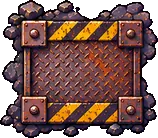
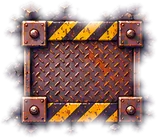
The Deep Mine: ground surfaces blend smoothly into each other
Claude-Session: https://claude.ai/code/session_01DZ7TQ884r4s3ytnVNv4XVF

diff --git a/client/client.js b/client/client.js
@@ -3553,12 +3553,12 @@ function drawDynastyWorld() {
   drawGroundCached("dyn" + T + WW + "x" + WH + ":" + ready + ":" + decorSrc.length, (vx, vy, vw, vh) => {
     const fill = (p, x, y, w, h) => { const ax = Math.max(x, vx), ay = Math.max(y, vy), bx = Math.min(x + w, vx + vw), by = Math.min(y + h, vy + vh); if (bx > ax && by > ay) { ctx.fillStyle = p; ctx.fillRect(ax, ay, bx - ax, by - ay); } };
     const grass = pattern(base); ctx.fillStyle = "#14161c"; ctx.fillRect(vx, vy, vw, vh); if (grass) fill(grass, 0, 0, WW, WH);
-    for (const g of dynGroundCache.g) { if (g.tile === "dungeon") { if (g.x < vx + vw && g.x + g.w > vx && g.y < vy + vh && g.y + g.h > vy) mineDungeonFloor(g, vx, vy, vw, vh); continue; }
+    if (mn) { mineGroundBlend(dynGroundCache.g, grass, vx, vy, vw, vh); for (const d of decor) if (/^mChasm/.test(d.kind)) { const [w, h] = d.kind === "mChasm" ? [660, 250] : [250, 620]; if (d.x - w / 2 < vx + vw + 30 && d.x + w / 2 > vx - 30 && d.y - h / 2 < vy + vh + 30 && d.y + h / 2 > vy - 30) drawChasm(d, w, h); }
+      mineRails(vx, vy, vw, vh, WW, WH); }   // The Deep Mine: every surface faded softly into the next, then chasms, then the rails over everything (on a chasm they run on a timber bridge)
+    else for (const g of dynGroundCache.g) {
       const p = pattern(T + g.tile); if (wo) { if (p && grass && g.x < vx + vw + 60 && g.x + g.w > vx - 60 && g.y < vy + vh + 60 && g.y + g.h > vy - 60) softPatch(g, p, grass); continue; }
       if (p) fill(p, g.x, g.y, g.w, g.h);
       if (g.road) { const horiz = g.w > g.h; if (horiz) { px(g.x, g.y - 3, g.w, 3, "#4b4554"); px(g.x, g.y + g.h, g.w, 3, "#2a2630"); } else { px(g.x - 3, g.y, 3, g.h, "#4b4554"); px(g.x + g.w, g.y, 3, g.h, "#2a2630"); } } }
-    if (mn) { for (const d of decor) if (/^mChasm/.test(d.kind)) { const [w, h] = d.kind === "mChasm" ? [660, 250] : [250, 620]; if (d.x - w / 2 < vx + vw + 30 && d.x + w / 2 > vx - 30 && d.y - h / 2 < vy + vh + 30 && d.y + h / 2 > vy - 30) drawChasm(d, w, h); }
-      mineRails(vx, vy, vw, vh, WW, WH); }   // The Deep Mine: chasms, then the rails over everything (on a chasm they run on a timber bridge)
     ctx.fillStyle = "#0c0b10"; ctx.fillRect(-60, -60, WW + 120, 60); ctx.fillRect(-60, WH, WW + 120, 60); ctx.fillRect(-60, 0, 60, WH); ctx.fillRect(WW, 0, 60, WH);   // map edge
   });
   syncDecor();
@@ -3663,6 +3663,30 @@ function drawCart(c, i) {   // views in the strip: driving down, down-right, rig
   for (const p0 of state.players.values()) if (p0.ride > 0 && (p0.ride - 1) >> 1 === i) { const p = V(p0); if (p) riders.push(p); }
   riders.sort((a, b) => a.y - b.y); for (const p of riders) drawRider(p, rim);
 }
+// The Deep Mine (Nov 11, user: "make the surfaces blend with each other"): each patch of slate / mud / planks and the dungeon floor is painted
+// through a heavily blurred mask of its shape (a shadow-blur silhouette, so it works in every browser), and big soft grime blotches
+// lie across everything, so no surface has an edge: one fades into the next. All in world coordinates, so ground chunks join up.
+let mbA = null, mbB = null;
+function mineMasked(shape, blur, paint, vx, vy, vw, vh) {   // paint(g) draws the surface (world coords) on g; it's kept only inside the blurred shape
+  if (!mbA || mbA.width !== vw || mbA.height !== vh) { mbA = document.createElement("canvas"); mbB = document.createElement("canvas"); mbA.width = mbB.width = vw; mbA.height = mbB.height = vh; }
+  const a = mbA.getContext("2d"), b = mbB.getContext("2d");
+  a.setTransform(1, 0, 0, 1, 0, 0); a.clearRect(0, 0, vw, vh); a.setTransform(1, 0, 0, 1, -vx, -vy); a.globalCompositeOperation = "source-over"; a.imageSmoothingEnabled = false; paint(a);
+  b.setTransform(1, 0, 0, 1, 0, 0); b.clearRect(0, 0, vw, vh); b.setTransform(1, 0, 0, 1, -vx - 30000, -vy); b.shadowColor = "#000"; b.shadowBlur = blur; b.shadowOffsetX = 30000; b.fillStyle = "#000"; shape(b); b.shadowColor = "transparent";
+  a.setTransform(1, 0, 0, 1, 0, 0); a.globalCompositeOperation = "destination-in"; a.drawImage(mbB, 0, 0); a.globalCompositeOperation = "source-over";
+  ctx.drawImage(mbA, vx, vy);
+}
+function mineGroundBlend(G, base, vx, vy, vw, vh) {
+  const WARM = { stone: "rgba(70,46,34,.26)", mud: "rgba(30,20,14,.12)", planks: "rgba(20,12,8,.18)" };
+  for (const g of G) { const pad = g.tile === "dungeon" ? 90 : 70; if (g.x > vx + vw + pad || g.x + g.w < vx - pad || g.y > vy + vh + pad || g.y + g.h < vy - pad) continue;
+    if (g.tile === "dungeon") { const r = { x: g.x - 40, y: g.y - 40, w: g.w + 120, h: g.h + 120, tile: "dungeon" };
+      mineMasked(c => c.fillRect(g.x + 30, g.y + 30, g.w + 60, g.h + 60), 90, c => { const m = ctx; ctx = c; try { mineDungeonFloor(r, vx, vy, vw, vh); } finally { ctx = m; } }, vx, vy, vw, vh); continue; }
+    const p = pattern("m" + g.tile); if (!p) continue; const sh = softShape(g).path;
+    mineMasked(c => c.fill(sh), g.tile === "planks" ? 26 : 56, c => { c.fillStyle = p; c.fillRect(vx, vy, vw, vh); c.globalCompositeOperation = "source-atop"; c.fillStyle = WARM[g.tile] || "rgba(0,0,0,0)"; c.fillRect(vx, vy, vw, vh); c.globalCompositeOperation = "source-over"; }, vx, vy, vw, vh);
+  }
+  const CELL = 420; for (let gy = Math.floor((vy - 300) / CELL); gy * CELL < vy + vh + 300; gy++) for (let gx = Math.floor((vx - 300) / CELL); gx * CELL < vx + vw + 300; gx++) {   // grime: big soft light and dark blotches over everything
+    const h = mnHash(gx * 13 + 7, gy * 17 + 3), x = (gx + mnHash(gx, gy * 3)) * CELL, y = (gy + mnHash(gx * 5, gy)) * CELL, r = 180 + h * 220, dark = h < .62;
+    const gr = ctx.createRadialGradient(x, y, 0, x, y, r); gr.addColorStop(0, dark ? `rgba(8,5,4,${.16 + h * .14})` : `rgba(150,120,95,${.03 + (h - .62) * .1})`); gr.addColorStop(1, "rgba(0,0,0,0)"); ctx.fillStyle = gr; ctx.fillRect(x - r, y - r, r * 2, r * 2); }
+}
 // ---------- The Deep Mine (Nov 11): rails, chasms, the dungeon floor, the rune circle, the portal swirl, the seal crystals ----------
 const mnHash = (a, b) => { let h = (Math.round(a) * 374761393 + Math.round(b) * 668265263) | 0; h = (h ^ (h >>> 13)) * 1274126177; return ((h ^ (h >>> 16)) >>> 0) / 4294967296; };
 let mineRailCache = null;
@@ -3725,8 +3749,6 @@ function mineDungeonFloor(g, vx, vy, vw, vh) {   // the boss dungeon's floor: bi
     if (hh > .1 && hh < .24) { ctx.save(); ctx.globalCompositeOperation = "lighter"; ctx.strokeStyle = "rgba(70,160,255,.42)"; ctx.lineWidth = 2; ctx.shadowColor = "#3aa0ff"; ctx.shadowBlur = 6; ctx.beginPath(); ctx.moveTo(x, y); ctx.lineTo(x + SW, y); ctx.stroke(); ctx.restore(); }   // a rune-lit joint
     if (hh > .45 && hh < .5) { ctx.save(); ctx.globalCompositeOperation = "lighter"; ctx.strokeStyle = "rgba(90,180,255,.5)"; ctx.lineWidth = 2; const mx = x + SW / 2, my = y + SH / 2; ctx.beginPath(); ctx.moveTo(mx, my - 16); ctx.lineTo(mx, my + 16); ctx.moveTo(mx, my - 6); ctx.lineTo(mx - 9, my - 14); ctx.moveTo(mx, my - 6); ctx.lineTo(mx + 9, my - 14); ctx.moveTo(mx, my + 4); ctx.lineTo(mx - 9, my - 4); ctx.moveTo(mx, my + 4); ctx.lineTo(mx + 9, my - 4); ctx.stroke(); ctx.restore(); }   // a carved rune
   }
-  const e = ctx.createLinearGradient(g.x, 0, g.x + 70, 0); e.addColorStop(0, "rgba(5,5,10,.7)"); e.addColorStop(1, "rgba(5,5,10,0)"); ctx.fillStyle = e; ctx.fillRect(g.x, g.y, 70, g.h);
-  const e2 = ctx.createLinearGradient(0, g.y, 0, g.y + 70); e2.addColorStop(0, "rgba(5,5,10,.7)"); e2.addColorStop(1, "rgba(5,5,10,0)"); ctx.fillStyle = e2; ctx.fillRect(g.x, g.y, g.w, 70);
   ctx.restore();
 }
 function drawRuneCircle(d) {   // where the Mine Beast's statue will stand: a great carved circle of glowing runes, slowly turning

diff --git a/client/index.html b/client/index.html
@@ -533,5 +533,5 @@ body.in-match #ls{display:none}
 <div id="spectate" class="spectate hidden" aria-live="polite"><b id="specTitle"></b><span><span id="specWho"></span><small id="specHint"> · Space / ← → / click to switch</small></span></div>
  <div id="overlay" class="overlay hidden"><div class="modal"><div style="font-size:42px">☣</div><h2 id="overlayTitle"></h2><p class="muted" id="overlayText"></p><div id="shop" class="shop hidden" aria-label="Shop"></div><div id="breakBtns" class="break-btns hidden"><button class="button primary" id="breakReady">READY</button><button class="button" id="breakMin">▾ MINIMIZE · BUILD FIRST</button><button class="button hidden" id="nextStage">START NOW</button></div><button class="button primary hidden" id="restartGame">PLAY AGAIN</button></div></div>
 </section>
-<script type="module" src="./client.js?v=20261111f"></script>
+<script type="module" src="./client.js?v=20261111g"></script>
 </body></html>

diff --git a/tools/extract-mine.py b/tools/extract-mine.py
@@ -52,7 +52,10 @@ def save(kind, c, width=None, scale=None, lights=0, blue=0, flat=False, loose=Fa
     if flat:   # marks blended with the magenta: pull every pinkish pixel back to neutral
         q = c.astype(int); pk = (q[..., 0] - q[..., 1] > 30) & (q[..., 2] - q[..., 1] > 20) & (np.abs(q[..., 0] - q[..., 2]) < 80); q[..., 0] = np.where(pk, q[..., 1] + 6, q[..., 0]); q[..., 2] = np.where(pk, q[..., 1], q[..., 2]); c = q.clip(0, 255).astype(np.uint8)
     im = Image.fromarray(np.ascontiguousarray(c)).resize((max(1, round(c.shape[1] * sc)), max(1, round(c.shape[0] * sc))), Image.LANCZOS)
-    a = np.array(im); a[..., 3] = np.where(a[..., 3] > 90, 255, 0); im = Image.fromarray(a); im.save(os.path.join(OUT, kind + '.webp'), quality=Q, method=6, alpha_quality=82)
+    a = np.array(im); a[..., 3] = np.where(a[..., 3] > 90, 255, 0)
+    if flat and kind not in ('mPlanks', 'mRopeM'):   # ground marks fade out over their last 16px (no hard outline): they melt into the floor (user, Nov 11: "make the surfaces blend")
+        dist = ndimage.distance_transform_edt(np.pad(a[..., 3] > 0, 1))[1:-1, 1:-1]; k = np.clip(dist / 16, 0, 1); a[..., 3] = (k * k * (3 - 2 * k) * 255).astype(np.uint8)
+    im = Image.fromarray(a); im.save(os.path.join(OUT, kind + '.webp'), quality=Q, method=6, alpha_quality=82)
     w, h = im.size; info = {'url': f'assets/map/mn/{kind}.webp', 'w': w, 'h': h}
     if lights: L = spots(a, 'loose' if loose else 'light', lights); info['lights'] = [[round(x - w / 2), round(y - h)] for x, y, s in L]
     if blue: B = spots(a, 'blue', blue, 30); info['blue'] = [[round(x - w / 2), round(y - h), round(min(2.2, .6 + s / 900), 2)] for x, y, s in B]

diff --git a/HANDOFF.md b/HANDOFF.md
@@ -447,3 +447,12 @@ Jump to wave, spawn 5 of each zombie, spawn Hivemind, boss intro now, boss to 25
 ## Nov 11 (e): Midnight Carnival REMOVED (user: "screw the carnival map, restart"); next: a scary MINE map with rideable mine carts
 - SITES[6] removed (lobby has 6 maps again), SITE_STYLE / SITE_NAMES entries removed, test 33f removed, client/assets/map/cv deleted, client/carnivalArt.js = empty exports. Everything else KEPT for the mine: the ride engine (server this.coaster / updateCoaster / coasterBoard / coasterOff / queue, schema ride / rideCd / coasterS / coasterWait, "coaster" message), mapLayout coasterTrack / coasterAt / coasterCart / coasterSeat / COASTER, client coastSync / drawTrackSeg / drawCart / drawRider / prompts / station signs, buildCarnivalLayout / carnivalGround (unused). Restore the carnival art with python3 tools/extract-carnival.py (sources tools/art/carnival).
 - Mine plan + ChatGPT prompts: claude/mine-map.md. Preview 13.7 MB. Cache: client.js?v=20261111e.
+
+## Nov 11 — THE DEEP MINE (map 6, cache 20261111f, commit b576006 in v4)
+- New lobby site 6: `{ style: "mine", seed: 6060, w: 6000, h: 4000 }`. Art: tools/art/mine (user's 18 ChatGPT images + 2 GIFs) -> `python3 tools/extract-mine.py` -> client/assets/map/mn + client/mineArt.js (MN_ART, MN_TILES, MN_CART, MN_FX = portal swirl 8 frames + crystal shatter 12 frames, for the mission later).
+- mapLayout (both copies): MN_SIZE / MN_KINDS (appended to MAP_KINDS, mShaft = index 186), MINECART cfg { speed 340, gap 112, H 0, carts 4, seats 8, along: 1 }, MN_WAY (hand waypoints, 6000x4000 units) -> mineTrack (centripetal Catmull-Rom, 22800px, 67s a lap, ONE station at (850,400)), MN_SPOT (tower 1450,1330; shaft; part areas; dungeon rect 3880-5990 x 2700-3990; portal 5180,3230; statue spot 4520,3170; 4 seals), mineGround (gravel base, slate/mud blobs, planks under station/shack/crusher/lift, "dungeon" tile drawn in code), buildMineLayout (fixed landmarks, 3 chasms the track bridges, auto rock arches where the track runs up/down, the dungeon set piece, ridges round the scavenge zone, outcrops, machines, lanterns every ~530px along the track, flats never on the rails).
+- coasterCart / coasterSeat now read T.cfg (mine riders sit one behind the other). Server this.coaster.K = T.cfg || COASTER. Client: CO = ride numbers; coast.mn = mine.
+- Server: tower at MN_SPOT.tower (this.A), bossDoor = mShaft (y - 128), flow field on.
+- Client: mineMap(); SPOOKY_MINE light tint + CAVE_DARK .5 (drawNight always half dark on the mine; dynLights incl. blue crystal lights, portal/seals/braziers/rune circle punch holes); rails + chasms drawn into the ground chunks (mineRails, drawChasm, mineDungeonFloor); per frame: drawRuneCircle, portalFx (swirl clipped to the arch), sealFx, blue halos for a.blue; mine cart strip (3/4 views were drawn facing left: flip inverted for v 1/3); station roof drawn UNDER parked carts so riders' heads show; dust + drips overlay; minimap/lobby thumb (dungeon).
+- Test 33h (mine). sim-waves SA_SITE=6 OK. Preview is 15.59 MB of 16.78 MB: little room left for more art in the preview.
+- NOT built yet: the wave 20 mission (scavenge parts, 2 laps, shoot the 4 seals on lap 1, Beast wakes on lap 2 and chases), the statue (needs the Mine Beast design first), crystal crack stages.
